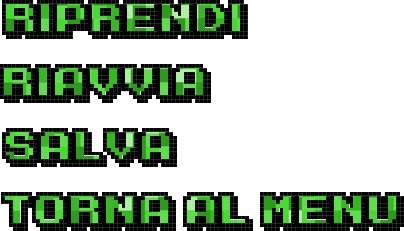
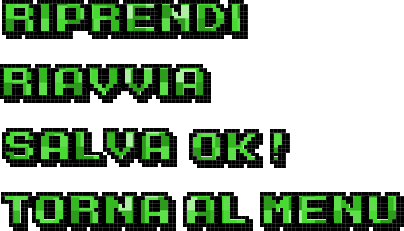
Migliorata la pausa.

Changed region(s): [[0.4455, 0.5455, 0.7426, 0.7273]]

diff --git a/Gioco/src/stati/StatoPausa.java b/Gioco/src/stati/StatoPausa.java
@@ -78,17 +78,20 @@ public class StatoPausa extends Stato{
 	}
 	
 	private void seleziona(){
-		h.getGioco().setPausa(false);
 		if(sceltaCorrente == 0){
+			h.getGioco().setPausa(false);
 			h.getGioco().setStato(precedente);
 		}
 		if(sceltaCorrente == 1){
+			h.getGioco().setPausa(false);
 			h.getGioco().setStato(new StatoGioco(h));
 		}
 		if(sceltaCorrente == 2){
 			h.getLivello().salva("res/livelli/livelloS.txt", (int)precedente.getSink().getX(), (int) precedente.getSink().getY(), precedente.getSink().getTempo());
+			Risorse.voci_pausa[2] = Risorse.ok;
 		}
 		if(sceltaCorrente == 3)
+			//h.getGioco().setPausa(false);
 			h.getGioco().setStato(new StatoMenu(h));
 	}
 	

diff --git a/Gioco/src/gfx/Risorse.java b/Gioco/src/gfx/Risorse.java
@@ -71,13 +71,13 @@ public class Risorse {
 
 		voci_pausa[0] = s1.prendiSprite(0, 0, 250, 40);
 		voci_pausa[1] = s1.prendiSprite(0, 63, 215, 40);
-		voci_pausa[2] = s1.prendiSprite(0, 128, 175, 40);
+		voci_pausa[2] = s1.prendiSprite(0, 128, 177, 40);
 		voci_pausa[3] = s1.prendiSprite(0, 190, 404, 40);
-		
+		ok = s1.prendiSprite(0, 128, 290, 40);
+
 		voci_pausa_off[0] = s2.prendiSprite(0, 0, 250, 40);
 		voci_pausa_off[1] = s2.prendiSprite(0, 63, 215, 40);
-		voci_pausa_off[2] = s2.prendiSprite(0, 128, 175, 40);
-		ok = s1.prendiSprite(0, 128, 290, 40);
+		voci_pausa_off[2] = s2.prendiSprite(0, 128, 177, 40);
 		voci_pausa_off[3] = s2.prendiSprite(0, 190, 404, 40);
 		
 		/*

diff --git a/Gioco/src/stati/StatoMenu.java b/Gioco/src/stati/StatoMenu.java
@@ -80,6 +80,7 @@ public class StatoMenu extends Stato{
 	
 	private void seleziona (){
 		if (sceltaCorrente == 0){
+			h.getGioco().setPausa(false);
 			h.getGioco().setStato(new StatoGioco(h));
 		}
 		if (sceltaCorrente == 1){
